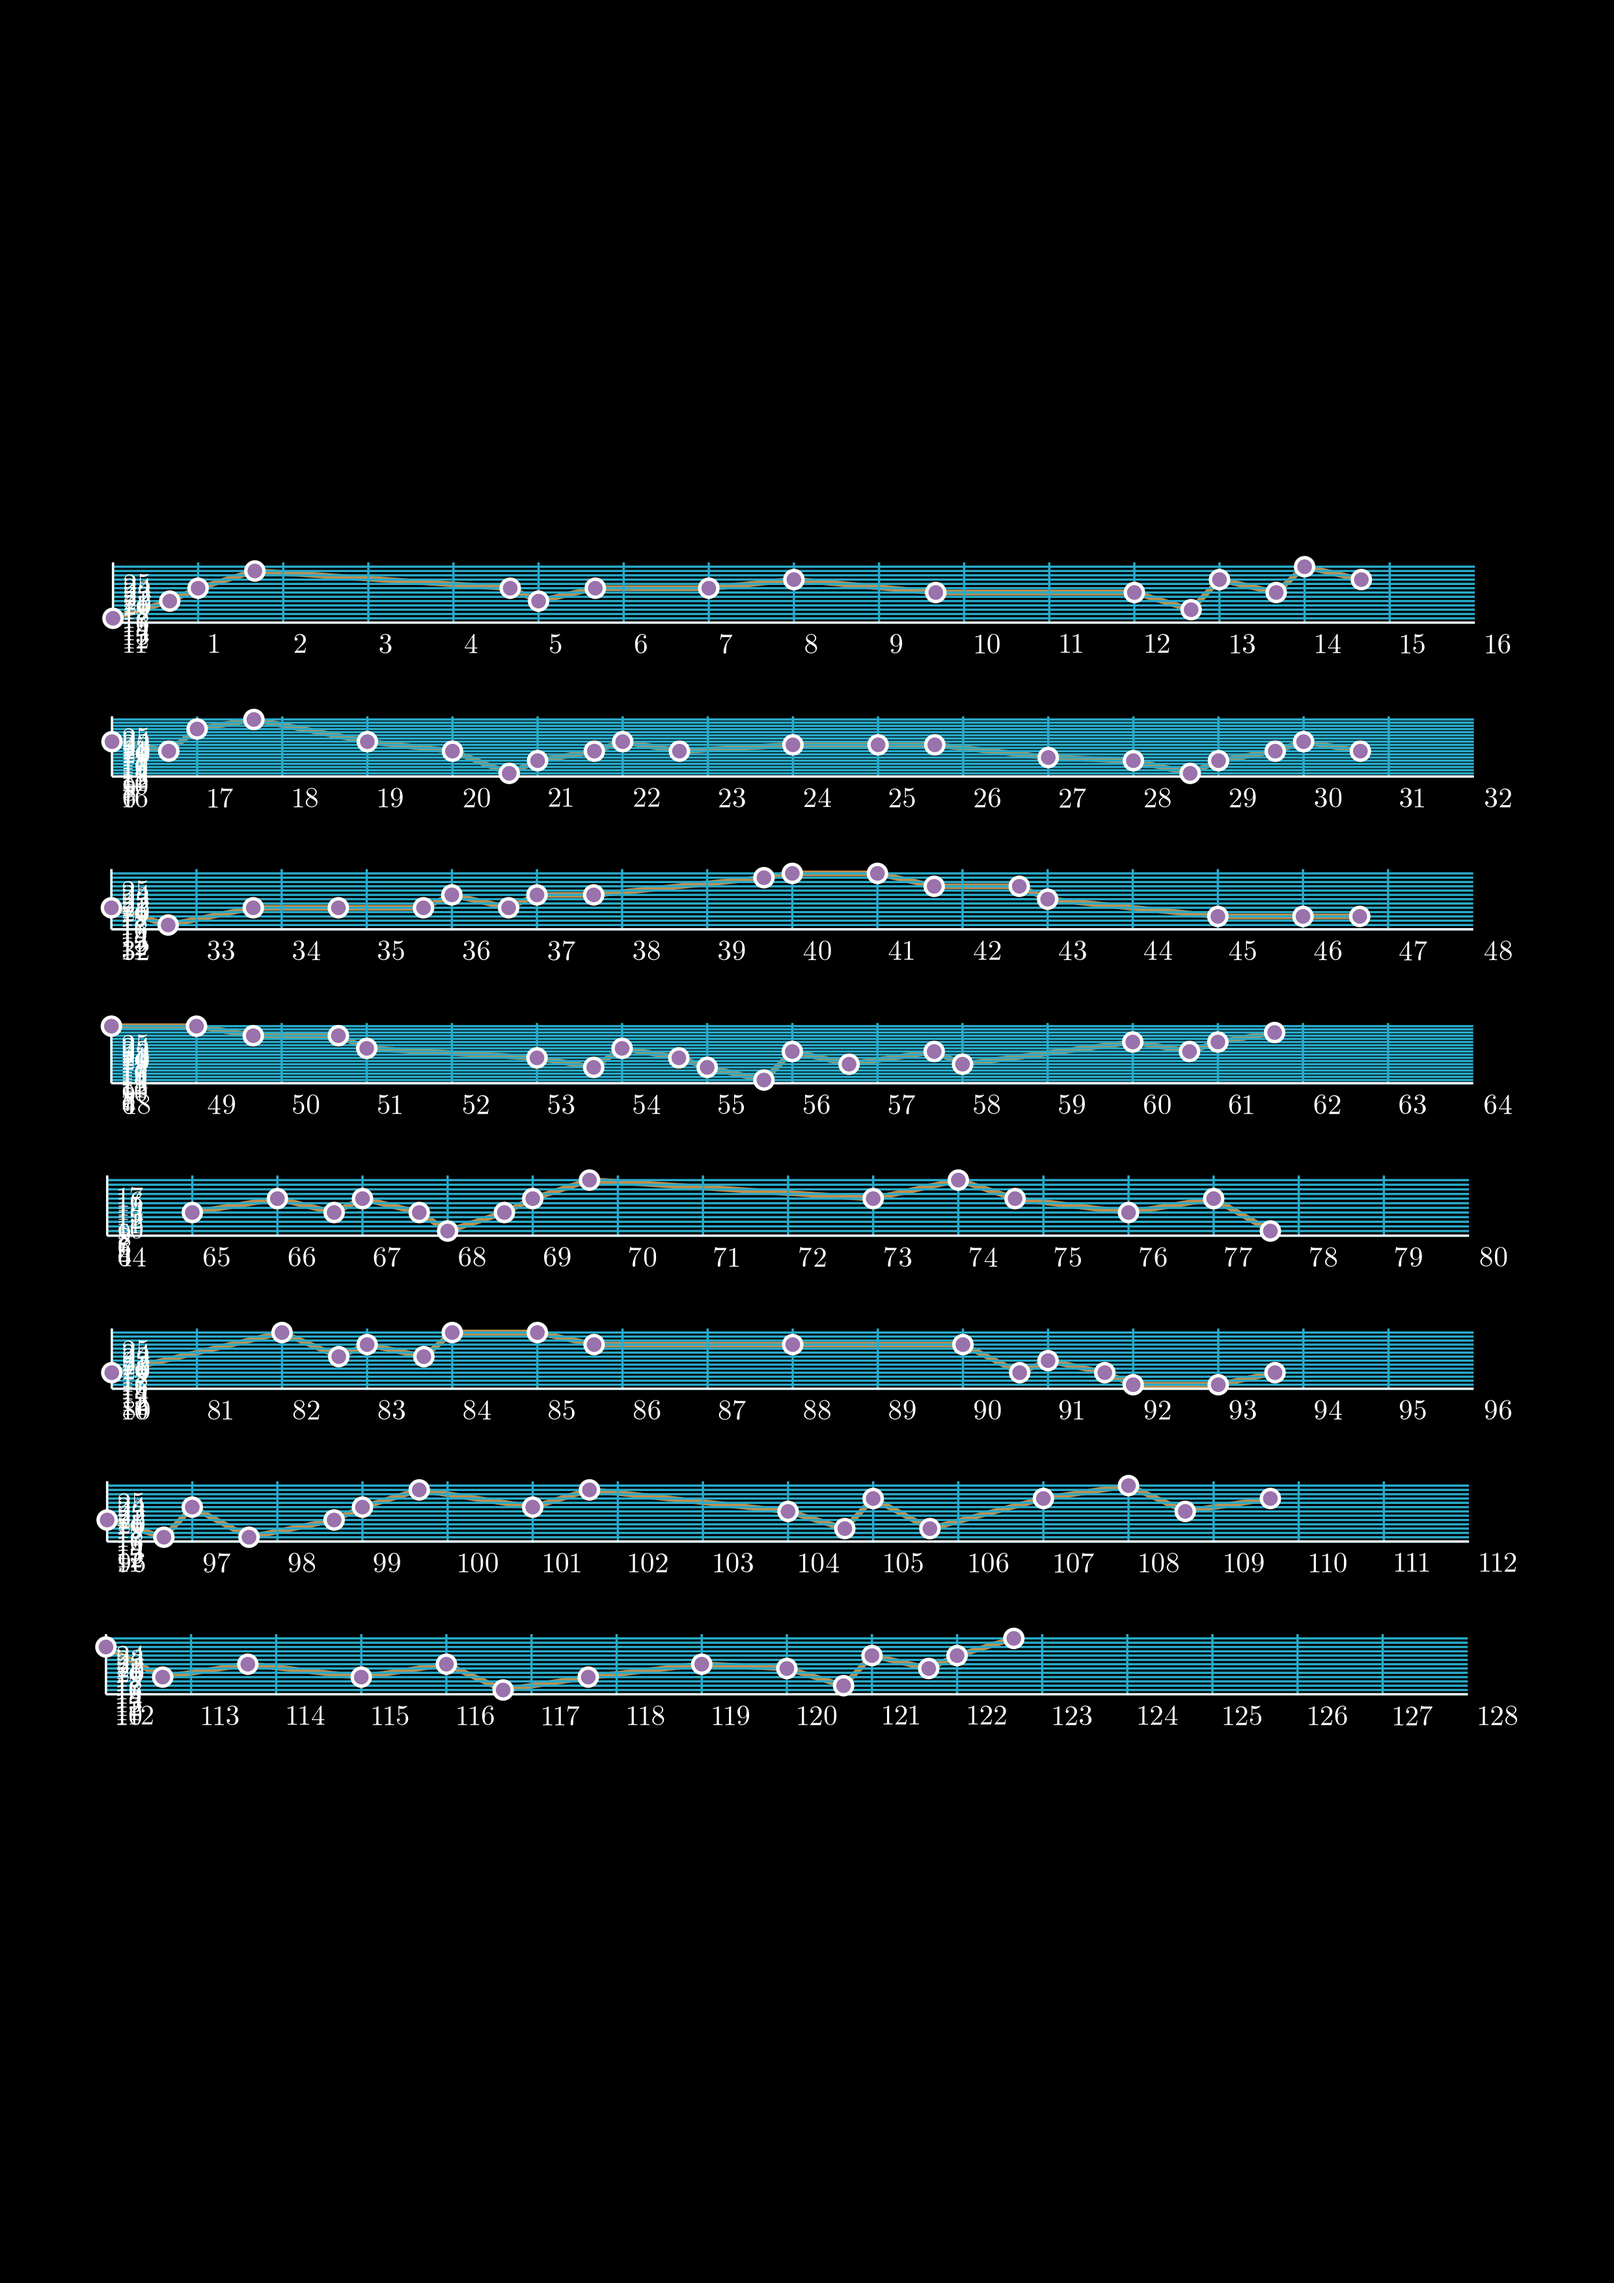
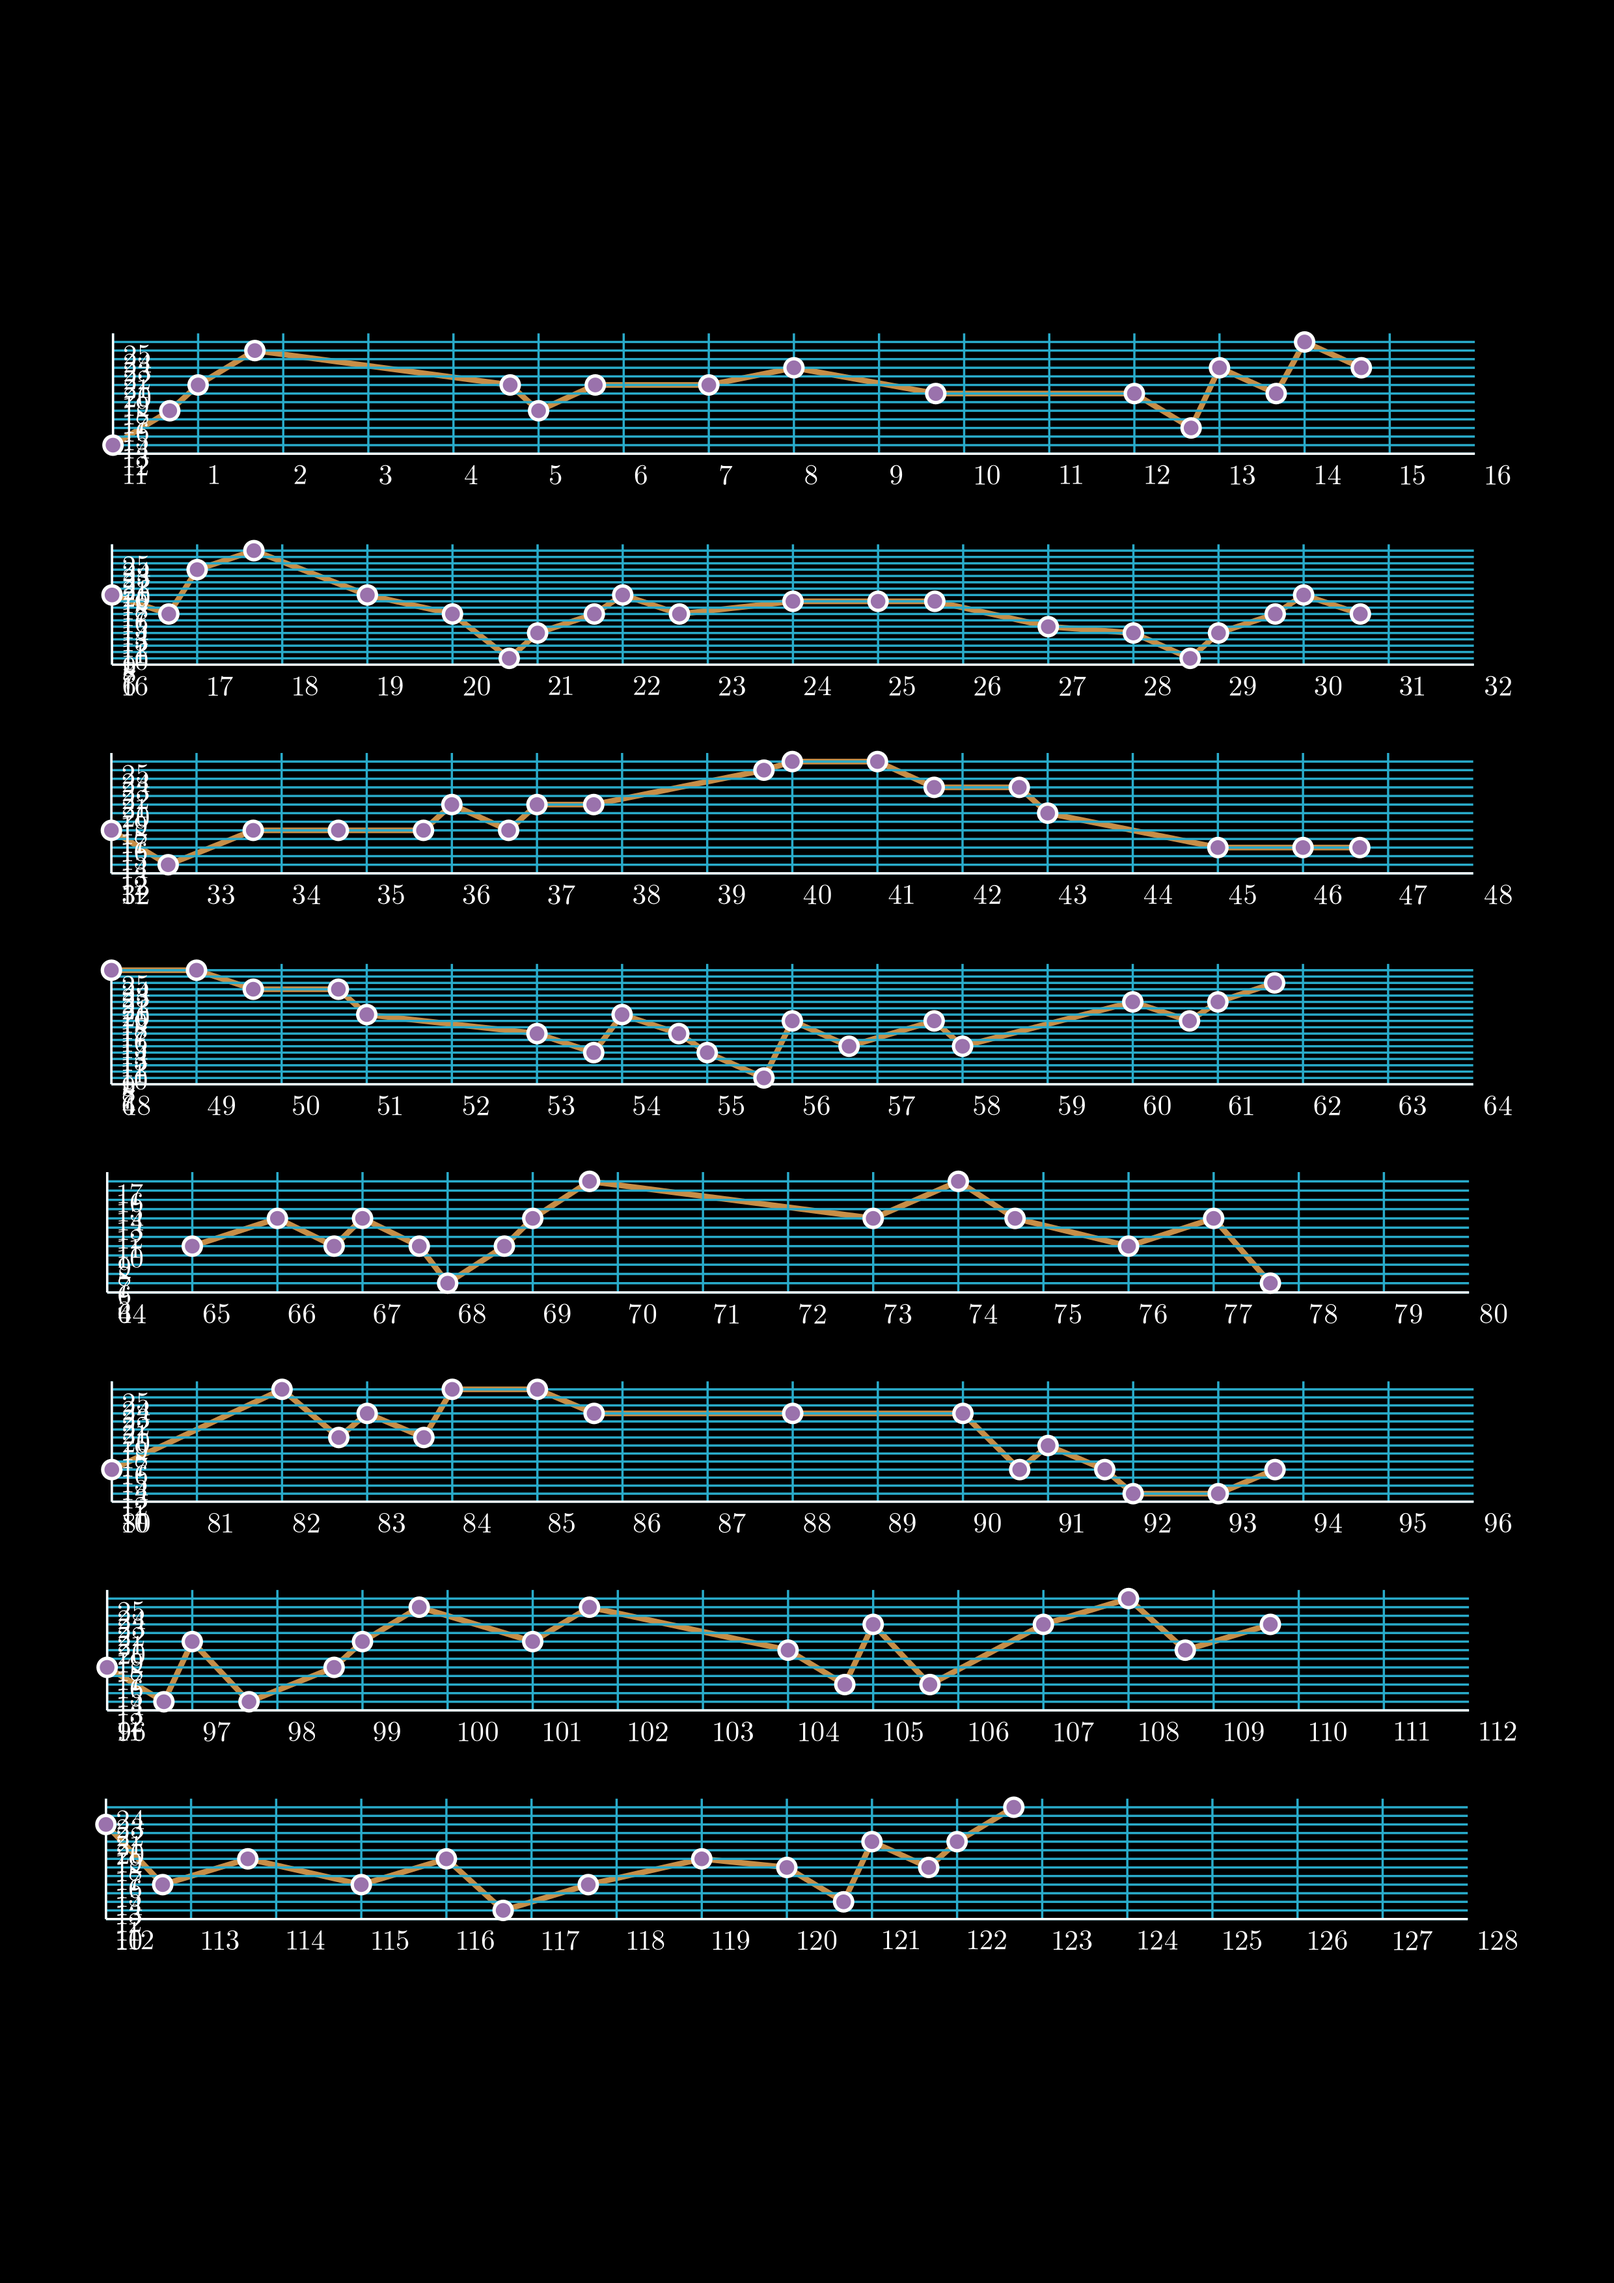
create melody sheet

Changed region(s): [[0.0621, 0.1243, 0.9315, 0.87]]

diff --git a/line_graph.py b/line_graph.py
@@ -116,7 +116,7 @@ class LineGraphExample(Scene):
         for point_row in points:
             row_length = 4 * 4
             x_vals, y_vals = point_row
-            graphs.append(create_line_graph(x_vals, y_vals, start_idx, start_idx + row_length, width, graph_height))
+            graphs.append(create_line_graph(x_vals, y_vals, start_idx, start_idx + row_length, width, graph_height * 2))
             start_idx += row_length
 
         all_graphs = VGroup(*graphs)
